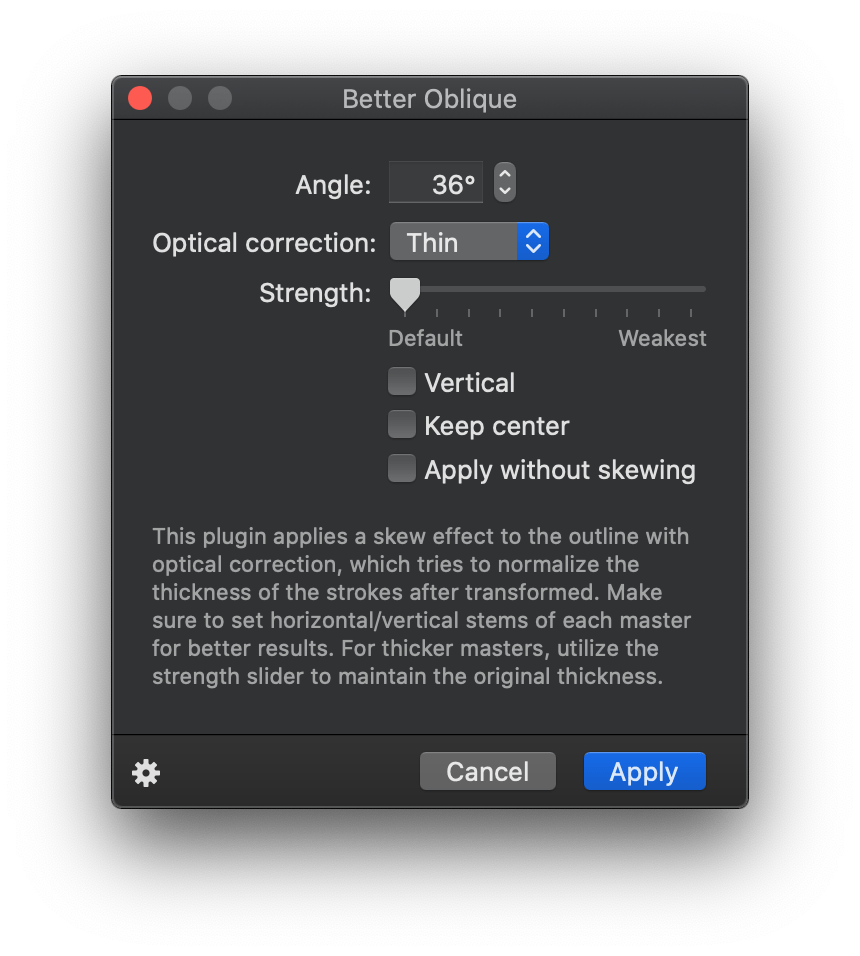
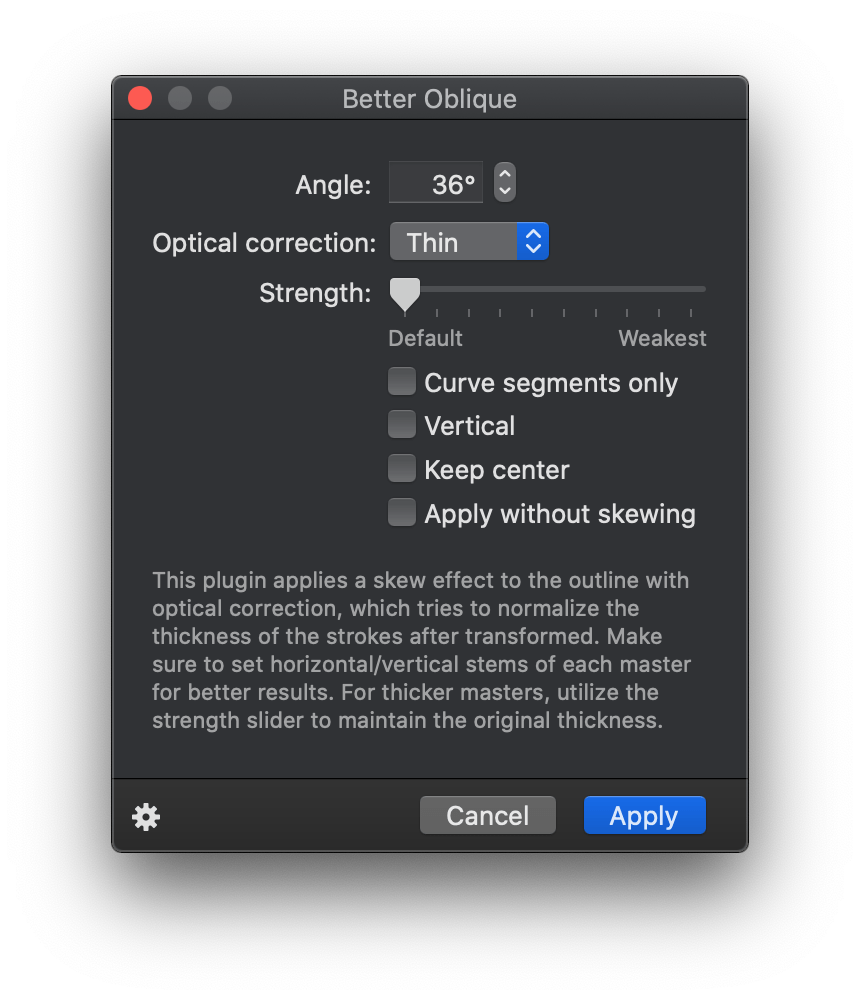
Add feature to offset subdivided points exclusively
Might benefit when longer curve segments are particularly concerned.

Changed region(s): [[0.1814, 0.1517, 0.8465, 0.728], [0.1209, 0.7584, 0.8767, 0.8797], [0.1209, 0.0607, 0.8767, 0.1213]]

diff --git a/BetterOblique.glyphsFilter/Contents/Resources/betterObliqueFilter.py b/BetterOblique.glyphsFilter/Contents/Resources/betterObliqueFilter.py
@@ -51,7 +51,7 @@ def expected_stem_scale(stem_angle, shear_angle, stem_size=1.0, vertical=False):
     segment = beziers.line.Line(beziers.point.Point(0.0, 0.0), beziers.point.Point(0.0, stem_size))
     segment = segment.rotated(beziers.point.Point(0.0, 0.0), stem_angle)
     segment = segment.transformed(beziers.affinetransformation.AffineTransformation(shear_matrix(shear_angle, vertical=vertical)))
-    return segment.length
+    return segment.length / stem_size
 
 def target_stem_scale(shear_angle, vertical=False, mode=None):
     if mode == 'thick':
@@ -72,7 +72,7 @@ def make_distance_vector(d):
         d = beziers.point.Point(d[0], d[1])
     return d
 
-def offset_path(path, distance, subdivide=True):
+def offset_path(path, distance, subdivide=True, curve_segments_only=False):
     
     segments = path.asSegments()
     original_number_of_segments = len(segments)
@@ -142,29 +142,32 @@ def offset_path(path, distance, subdivide=True):
         d2 = make_distance_vector(distance(s2.startAngle, i, number_of_segments))
         d0 = make_distance_vector(distance(mean_angle(s1.endAngle, s2.startAngle), i, number_of_segments))
         if True:
-            p1  = s2[0]
-            s1a = s1.endAngle - math.pi / 2.0
-            s1e = beziers.point.Point(s1[-1].x + math.cos(s1a) * d1.x, s1[-1].y + math.sin(s1a) * d1.y)
-            s2a = s2.startAngle - math.pi / 2.0
-            s2s = beziers.point.Point(s2[0].x  + math.cos(s2a) * d2.x, s2[0].y  + math.sin(s2a) * d2.y)
-            t1  = beziers.line.Line(s1e, s1e + s1.tangentAtTime(1.0))
-            t2  = beziers.line.Line(s2s, s2s + s2.tangentAtTime(0.0))
-            p2  = line_line_intersection(t1, t2)
-            # Give up miter join if the angle is too steep.
-            if p2 is None or s1.endAngle == s2.startAngle or abs(math.degrees(angle_diff(s2.startAngle, s1.endAngle))) < 8.0:
-                nominal_angle = mean_angle(s1.endAngle, s2.startAngle) - math.pi / 2.0
-                p2 = beziers.point.Point(p1.x + math.cos(nominal_angle) * d0.x, p1.y + math.sin(nominal_angle) * d0.y)
-            translation_dict[p1] = p2
+            if not curve_segments_only or s2[0] not in original_points_in_segments:
+                p1  = s2[0]
+                s1a = s1.endAngle - math.pi / 2.0
+                s1e = beziers.point.Point(s1[-1].x + math.cos(s1a) * d1.x, s1[-1].y + math.sin(s1a) * d1.y)
+                s2a = s2.startAngle - math.pi / 2.0
+                s2s = beziers.point.Point(s2[0].x  + math.cos(s2a) * d2.x, s2[0].y  + math.sin(s2a) * d2.y)
+                t1  = beziers.line.Line(s1e, s1e + s1.tangentAtTime(1.0))
+                t2  = beziers.line.Line(s2s, s2s + s2.tangentAtTime(0.0))
+                p2  = line_line_intersection(t1, t2)
+                # Give up miter join if the angle is too steep.
+                if p2 is None or s1.endAngle == s2.startAngle or abs(math.degrees(angle_diff(s2.startAngle, s1.endAngle))) < 8.0:
+                    nominal_angle = mean_angle(s1.endAngle, s2.startAngle) - math.pi / 2.0
+                    p2 = beziers.point.Point(p1.x + math.cos(nominal_angle) * d0.x, p1.y + math.sin(nominal_angle) * d0.y)
+                translation_dict[p1] = p2
         if isinstance(s1, beziers.cubicbezier.CubicBezier):
-            nominal_angle = mean_angle(beziers.line.Line(s1[1], s1[2]).endAngle, beziers.line.Line(s1[2], s1[3]).startAngle) - math.pi / 2.0
-            p1 = s1[2]
-            p2 = beziers.point.Point(p1.x + math.cos(nominal_angle) * d1.x, p1.y + math.sin(nominal_angle) * d1.y)
-            translation_dict[p1] = p2
+            if not curve_segments_only or s1[2] not in original_points_in_segments:
+                nominal_angle = mean_angle(beziers.line.Line(s1[1], s1[2]).endAngle, beziers.line.Line(s1[2], s1[3]).startAngle) - math.pi / 2.0
+                p1 = s1[2]
+                p2 = beziers.point.Point(p1.x + math.cos(nominal_angle) * d1.x, p1.y + math.sin(nominal_angle) * d1.y)
+                translation_dict[p1] = p2
         if isinstance(s2, beziers.cubicbezier.CubicBezier):
-            nominal_angle = mean_angle(beziers.line.Line(s2[0], s2[1]).endAngle, beziers.line.Line(s2[1], s2[2]).startAngle) - math.pi / 2.0
-            p1 = s2[1]
-            p2 = beziers.point.Point(p1.x + math.cos(nominal_angle) * d2.x, p1.y + math.sin(nominal_angle) * d2.y)
-            translation_dict[p1] = p2
+            if not curve_segments_only or s2[1] not in original_points_in_segments:
+                nominal_angle = mean_angle(beziers.line.Line(s2[0], s2[1]).endAngle, beziers.line.Line(s2[1], s2[2]).startAngle) - math.pi / 2.0
+                p1 = s2[1]
+                p2 = beziers.point.Point(p1.x + math.cos(nominal_angle) * d2.x, p1.y + math.sin(nominal_angle) * d2.y)
+                translation_dict[p1] = p2
         
     # Find subdivided points and store their translated points into a set.
     if subdivide:
@@ -236,7 +239,7 @@ def offset_glyphs_path(gspath, distance):
     draw_points(path, layer.getPointPen())
     gspath.nodes = layer.paths[0].nodes
 
-def shear_path(path, shear_angle, std_vw, std_hw, mode='medium', strength=1.0, vertical=False, skip_shear=False):
+def shear_path(path, shear_angle, std_vw, std_hw, mode='medium', strength=1.0, curve_segments_only=False, vertical=False, skip_shear=False):
 
     def distance_func(angle, index, count):
         stem_angle = angle + math.pi / 2.0
@@ -246,7 +249,7 @@ def shear_path(path, shear_angle, std_vw, std_hw, mode='medium', strength=1.0, v
         return stem_diff
     
     if mode != 'none':
-        path = offset_path(path, distance_func)
+        path = offset_path(path, distance_func, curve_segments_only=curve_segments_only)
     
     if not skip_shear:
         t = beziers.affinetransformation.AffineTransformation(shear_matrix(shear_angle, vertical=vertical))
@@ -254,21 +257,21 @@ def shear_path(path, shear_angle, std_vw, std_hw, mode='medium', strength=1.0, v
     
     return path
 
-def shear_gspath(gspath, shear_angle, std_vw, std_hw, mode='medium', strength=1.0, vertical=False, skip_shear=False):
+def shear_gspath(gspath, shear_angle, std_vw, std_hw, mode='medium', strength=1.0, curve_segments_only=False, vertical=False, skip_shear=False):
     layer = GSLayer()
-    path = shear_path(make_bezier_path_from_glyphs_path(gspath), shear_angle, std_vw, std_hw, mode=mode, strength=strength, vertical=vertical, skip_shear=skip_shear)
+    path = shear_path(make_bezier_path_from_glyphs_path(gspath), shear_angle, std_vw, std_hw, mode=mode, strength=strength, curve_segments_only=curve_segments_only, vertical=vertical, skip_shear=skip_shear)
     draw_points(path, layer.getPointPen())
     if len(layer.paths) > 0 and layer.paths[0]:
         gspath.nodes = layer.paths[0].nodes
 
 #
 
-def shear_layer(layer, shear_angle, std_vw=40.0, std_hw=40.0, optical_correction='medium', strength=1.0, vertical=False, center=True, skip_shear=False):
+def shear_layer(layer, shear_angle, std_vw=40.0, std_hw=40.0, optical_correction='medium', strength=1.0, curve_segments_only=False, vertical=False, center=True, skip_shear=False):
     if std_vw is None or std_hw is None:
         raise ValueError('StdVW and StdHW need to be defined to run this filter.')
     orig_bounds = layer.bounds
     for path in layer.paths:
-        shear_gspath(path, shear_angle, std_vw, std_hw, mode=optical_correction, strength=strength, vertical=vertical, skip_shear=skip_shear)
+        shear_gspath(path, shear_angle, std_vw, std_hw, mode=optical_correction, strength=strength, curve_segments_only=curve_segments_only, vertical=vertical, skip_shear=skip_shear)
     new_bounds = layer.bounds
     if center:
         orig_center = (orig_bounds.origin.x + orig_bounds.size.width / 2.0, orig_bounds.origin.y + orig_bounds.size.height / 2.0)

diff --git a/BetterOblique.glyphsFilter/Contents/Resources/plugin.py b/BetterOblique.glyphsFilter/Contents/Resources/plugin.py
@@ -86,6 +86,17 @@ class BetterObliqueFilter(FilterWithDialog):
             self.didChangeValueForKey_('strengthFactor')
             self.update()
     
+    def curveSegmentsOnly(self):
+        return Glyphs.boolDefaults['jp.co.morisawa.BetterOblique.curveSegmentsOnly'] or False
+    
+    def setCurveSegmentsOnly_(self, value):
+        value = bool(value)
+        if value != Glyphs.boolDefaults['jp.co.morisawa.BetterOblique.curveSegmentsOnly']:
+            self.willChangeValueForKey_('curveSegmentsOnly')
+            Glyphs.defaults['jp.co.morisawa.BetterOblique.curveSegmentsOnly'] = bool(value)
+            self.didChangeValueForKey_('curveSegmentsOnly')
+            self.update()
+    
     def vertical(self):
         return Glyphs.boolDefaults['jp.co.morisawa.BetterOblique.vertical'] or False
     
@@ -128,6 +139,7 @@ class BetterObliqueFilter(FilterWithDialog):
     def start(self):
         Glyphs.registerDefault('jp.co.morisawa.BetterOblique.opticalCorrection', 1)
         Glyphs.registerDefault('jp.co.morisawa.BetterOblique.strengthFactor', 0)
+        Glyphs.registerDefault('jp.co.morisawa.BetterOblique.curveSegmentsOnly', False)
         Glyphs.registerDefault('jp.co.morisawa.BetterOblique.vertical', False)
         Glyphs.registerDefault('jp.co.morisawa.BetterOblique.shouldKeepCenter', True)
         Glyphs.registerDefault('jp.co.morisawa.BetterOblique.shouldApplyWithoutSkewing', False)
@@ -135,6 +147,7 @@ class BetterObliqueFilter(FilterWithDialog):
         self.setAngle_(self.angle())
         self.setOpticalCorrection_(self.opticalCorrection())
         self.setStrengthFactor_(self.strengthFactor())
+        self.setCurveSegmentsOnly_(self.curveSegmentsOnly())
         self.setVertical_(self.vertical())
         self.setShouldKeepCenter_(self.shouldKeepCenter())
         self.setShouldApplyWithoutSkewing_(self.shouldApplyWithoutSkewing())
@@ -171,19 +184,21 @@ class BetterObliqueFilter(FilterWithDialog):
         shear_angle = math.radians(customParameters.get('angle', self.angle()))
         optical_correction = ('none', 'thin', 'medium', 'thick')[customParameters.get('opticalCorrection', self.opticalCorrection())]
         strength = (10.0 - customParameters.get('strengthFactor', self.strengthFactor())) / 10.0
+        curve_segments_only = customParameters.get('curveSegmentsOnly', self.curveSegmentsOnly())
         vertical = customParameters.get('vertical', self.vertical())
         keep_center = customParameters.get('keepCenter', self.shouldKeepCenter())
         skip_shear = customParameters.get('applyWithoutSkewing', self.shouldApplyWithoutSkewing())
         
-        shear_layer(layer, shear_angle, std_vw=std_vw, std_hw=std_hw, optical_correction=optical_correction, strength=strength, vertical=vertical, center=keep_center, skip_shear=skip_shear)
+        shear_layer(layer, shear_angle, std_vw=std_vw, std_hw=std_hw, optical_correction=optical_correction, strength=strength, curve_segments_only=curve_segments_only, vertical=vertical, center=keep_center, skip_shear=skip_shear)
     
     @objc.python_method
     def generateCustomParameter(self):
-        return "{0}; angle:{1}; opticalCorrection:{2}; strengthFactor:{3}; vertical:{4}; keepCenter:{5}; applyWithoutSkewing:{6}".format(
+        return "{0}; angle:{1}; opticalCorrection:{2}; strengthFactor:{3}; curveSegmentsOnly:{4}; vertical:{5}; keepCenter:{6}; applyWithoutSkewing:{7}".format(
             self.__class__.__name__,
             self.angle() or 0.0,
             self.opticalCorrection() or 0,
             self.strengthFactor() or 0,
+            1 if self.curveSegmentsOnly() else 0,
             1 if self.vertical() else 0,
             1 if self.shouldKeepCenter() else 0,
             1 if self.shouldApplyWithoutSkewing() else 0
